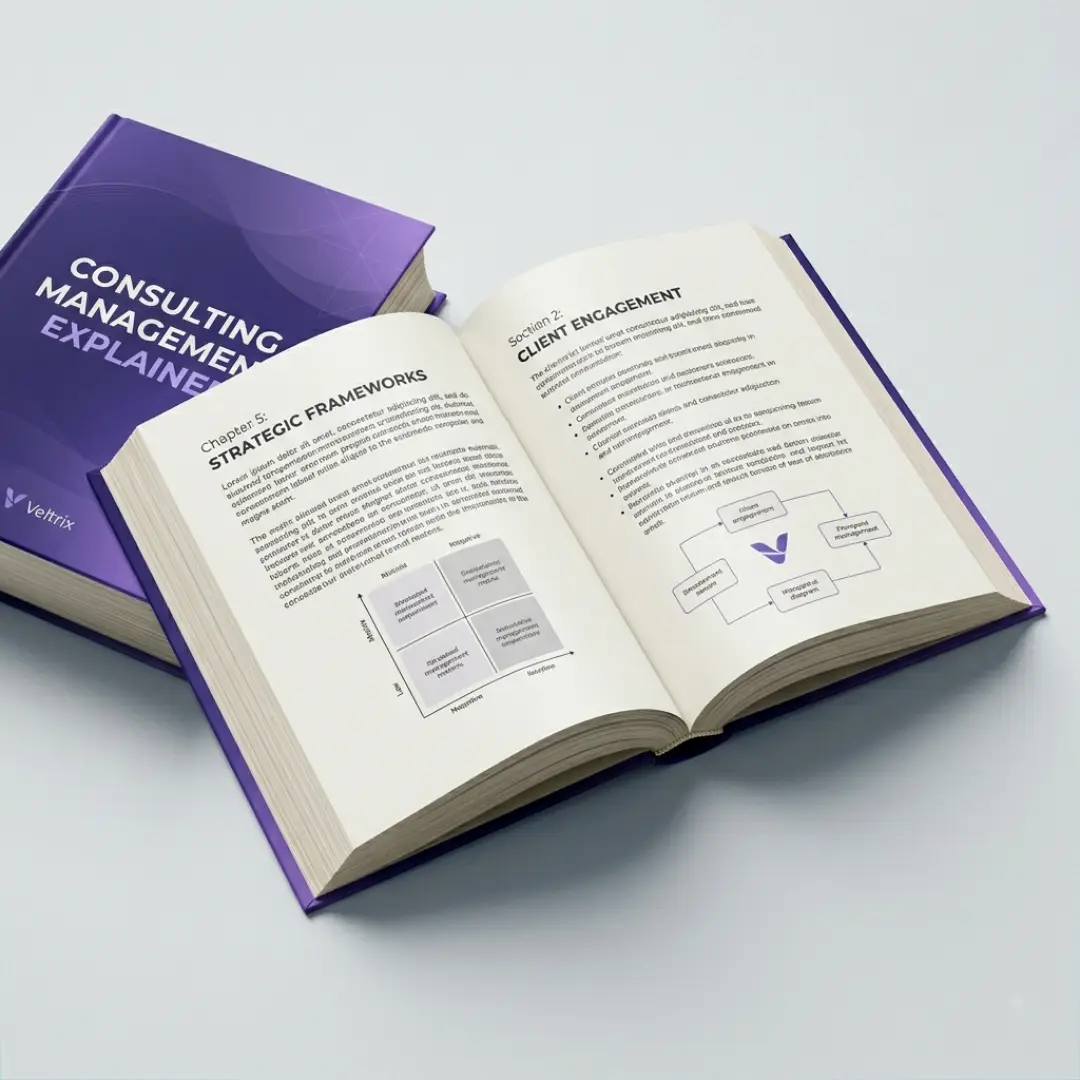
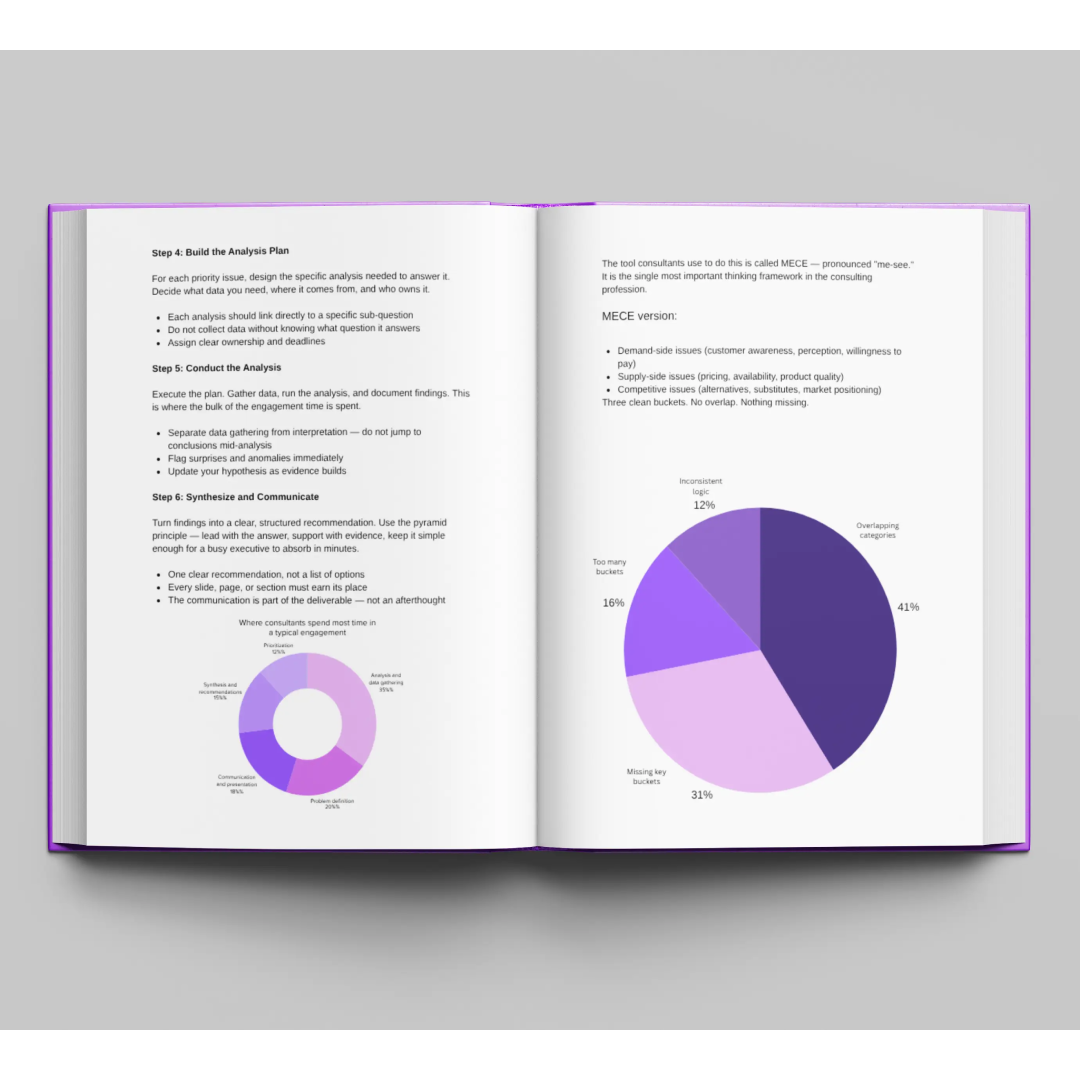
Update Consulting Management book: 22 chapters, 112 pages, remove broken image, fix success page messaging

diff --git a/Primecast/src/app/product/[slug]/page.tsx b/Primecast/src/app/product/[slug]/page.tsx
@@ -92,22 +92,35 @@ const books = [
       "/images/books/consulting-mgm-1.webp",
       "/images/books/consulting-mgm-2.webp",
       "/images/books/consulting-mgm-3.webp",
-      "/images/books/consulting-mgm-4.webp",
     ],
     price: 49,
     oldPrice: 99,
     description: "Master the art of consulting management and build successful client relationships. This comprehensive guide covers client acquisition, project management, delivery excellence, and building a thriving consulting practice.",
     chapters: [
-      "Chapter 1: The Consulting Mindset",
-      "Chapter 2: Client Acquisition & Relationship Building",
-      "Chapter 3: Proposal Development & Pricing Strategies",
-      "Chapter 4: Project Planning & Scope Management",
-      "Chapter 5: Delivery Excellence & Quality Control",
-      "Chapter 6: Change Management & Client Communication",
-      "Chapter 7: Risk Assessment & Mitigation",
-      "Chapter 8: Building Long-term Client Partnerships"
+      "Chapter 1: What management consulting really is",
+      "Chapter 2: The consultant's core principles",
+      "Chapter 3: Critical thinking and the MECE framework",
+      "Chapter 4: Structuring problems with SCQA",
+      "Chapter 5: The 6-step problem-solving process",
+      "Chapter 6: SWOT analysis",
+      "Chapter 7: PESTLE framework",
+      "Chapter 8: Porter's five forces",
+      "Chapter 9: Market sizing — TAM, SAM, SOM",
+      "Chapter 10: Value chain analysis",
+      "Chapter 11: Organizational health diagnostics",
+      "Chapter 12: Process mapping and gap analysis",
+      "Chapter 13: Root cause analysis — 5 Whys and fishbone",
+      "Chapter 14: Benchmarking and competitive analysis",
+      "Chapter 15: Financial health indicators for consultants",
+      "Chapter 16: Hypothesis-driven problem solving",
+      "Chapter 17: Building the consulting deck — pyramid principle",
+      "Chapter 18: Data visualization for impact",
+      "Chapter 19: Stakeholder communication strategies",
+      "Chapter 20: Executive presentations that win",
+      "Chapter 21: Business model analysis",
+      "Chapter 22: Growth strategy frameworks — Ansoff and BCG matrix"
     ],
-    pages: 148,
+    pages: 112,
     rating: 4.9,
     reviews: 267,
   },

diff --git a/Primecast/src/app/success/page.tsx b/Primecast/src/app/success/page.tsx
@@ -73,16 +73,9 @@ export default async function SuccessPage({
               </p>
             )}
 
-            {downloadUrl ? (
-              <p className="text-muted-foreground mb-8">
-                Click below to download your PDF now.
-              </p>
-            ) : (
-              <p className="text-muted-foreground mb-8">
-                Your payment was received. If your direct Google Drive link is not configured yet,
-                use the book page below and contact support for instant delivery.
-              </p>
-            )}
+            <p className="text-muted-foreground mb-8">
+              Click below to download your PDF now.
+            </p>
 
             <div className="flex flex-col sm:flex-row gap-3 sm:gap-4 justify-center items-stretch sm:items-center">
               {downloadUrl ? (
